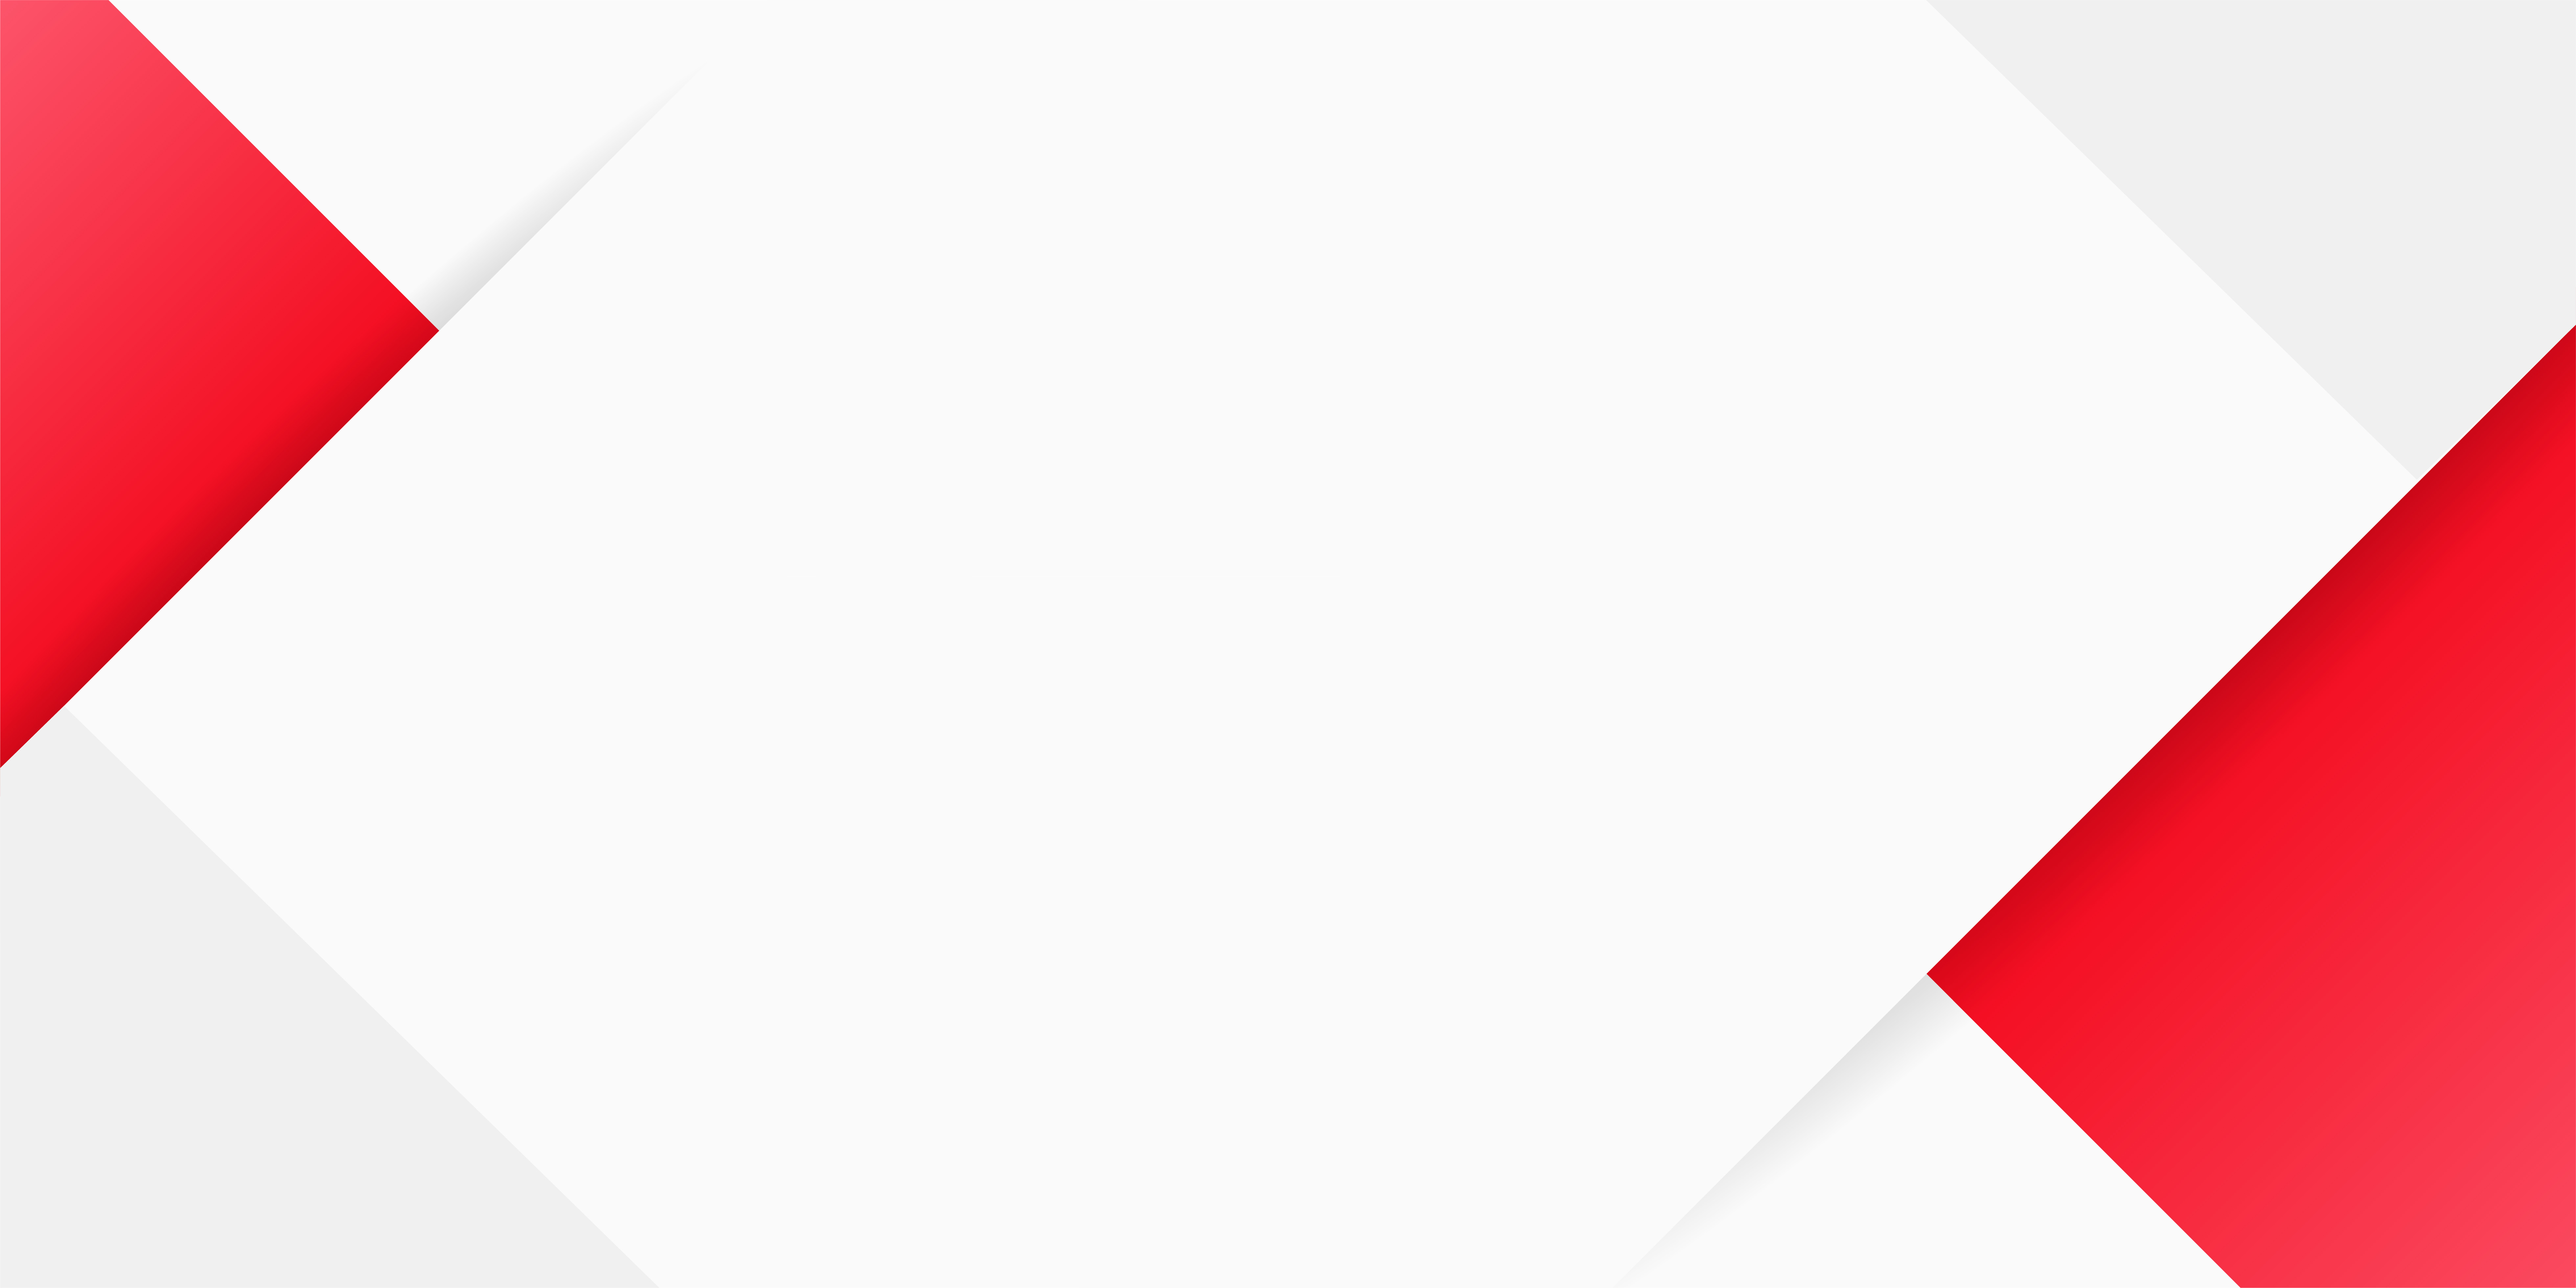
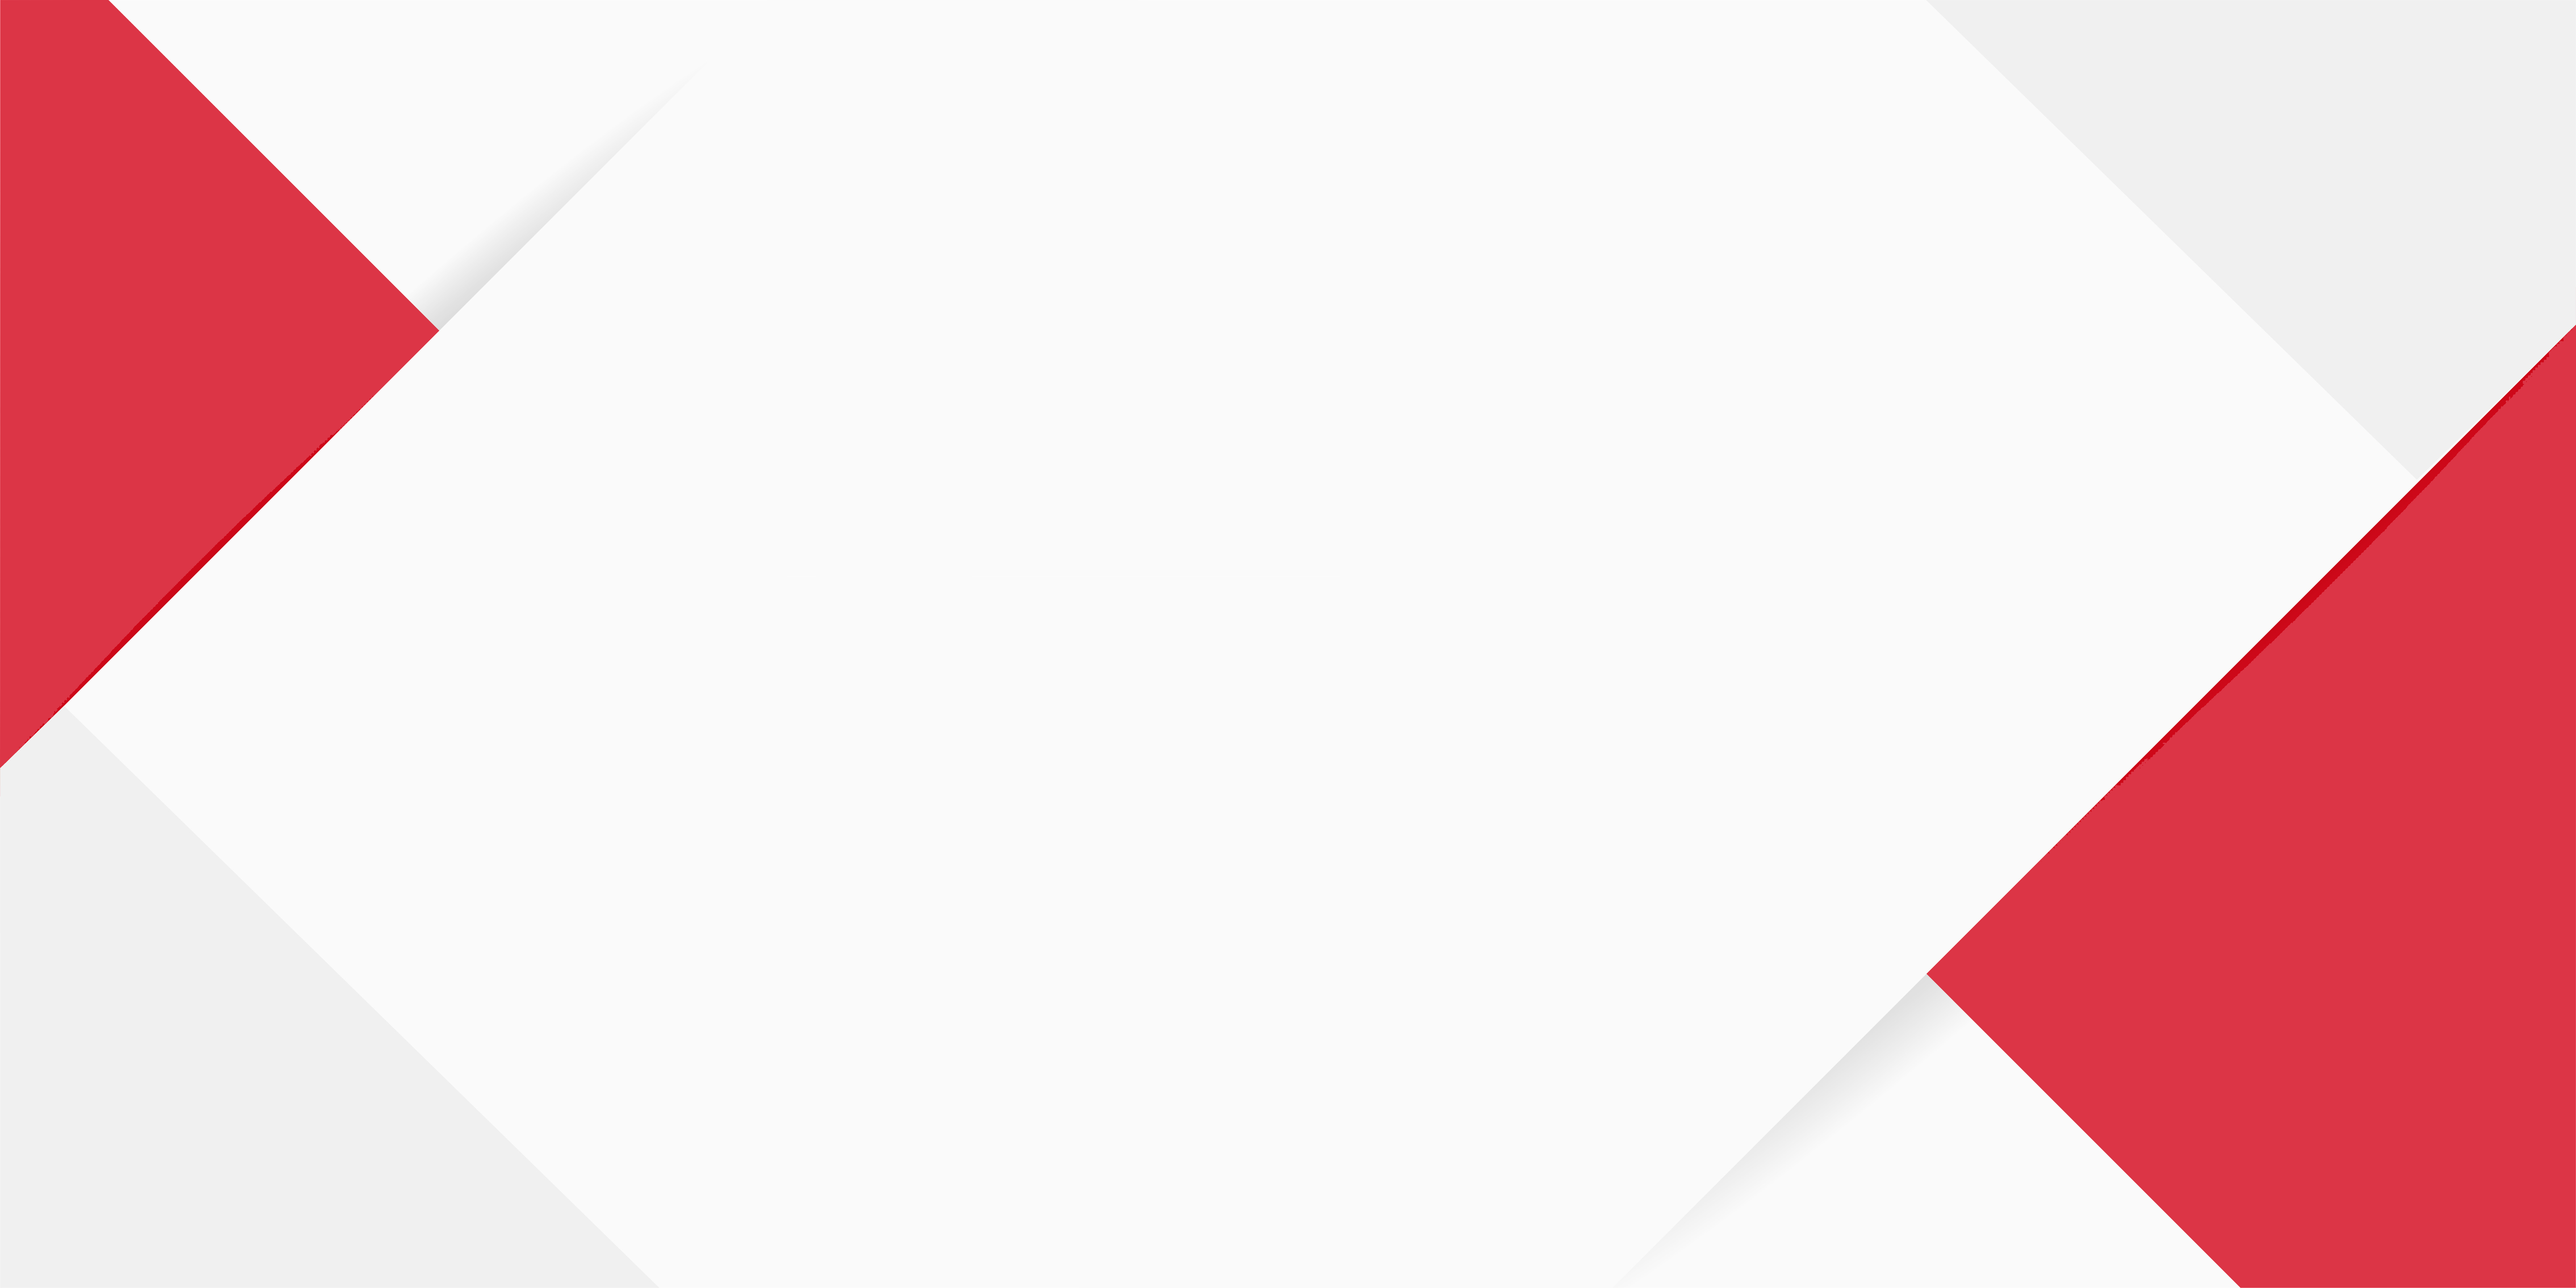
Update

Changed region(s): [[0.7499, 0.2489, 1.0, 1.0], [0.0, 0.0, 0.1875, 0.5912]]

diff --git a/assets/css/style.css b/assets/css/style.css
@@ -18,8 +18,7 @@
 }
 /* CTA Contact */
 .contact-cta {
-    margin: 100px 0px !important;
-    background-image: url('/assets/img/banner-cta.jpg');
+    background-image: url('/assets/img/banner-cta-min.jpg');
     background-repeat: no-repeat;
     background-position: center;
     background-size: cover;
@@ -170,6 +169,13 @@
         padding: 15px !important;
     }
     /* CTA Contat */
+    .contact-cta {
+        margin: 100px 0px !important;
+        background-image: url('/assets/img/banner-cta-min.jpg');
+        background-repeat: no-repeat;
+        background-position: center;
+        background-size: cover;
+    }
     .cta-item h1 {
         font-size: 27px !important;
     }

diff --git a/index.html b/index.html
@@ -140,15 +140,15 @@
 </div>
 </div>
 </section>
-
+<br>
  <!-- CTA Contact -->
-<section class="container-fluid contact-cta rounded-3 opacity-100">
+<section class="container my-5 contact-cta rounded-3 opacity-100">
   <div class="cta-item text-center py-5">
     <h1 class="fs-1">Don't worry for contact <br>I'm Available!</h1>
     <button type="button" class="btn btn-danger">Contact Me Now!</button>
   </div>
 </section>
-
+<br>
 <!-- Footer -->
 <footer class="container-fluid bg-light py-4 my-auto">
   <div class="container logo-footer">
